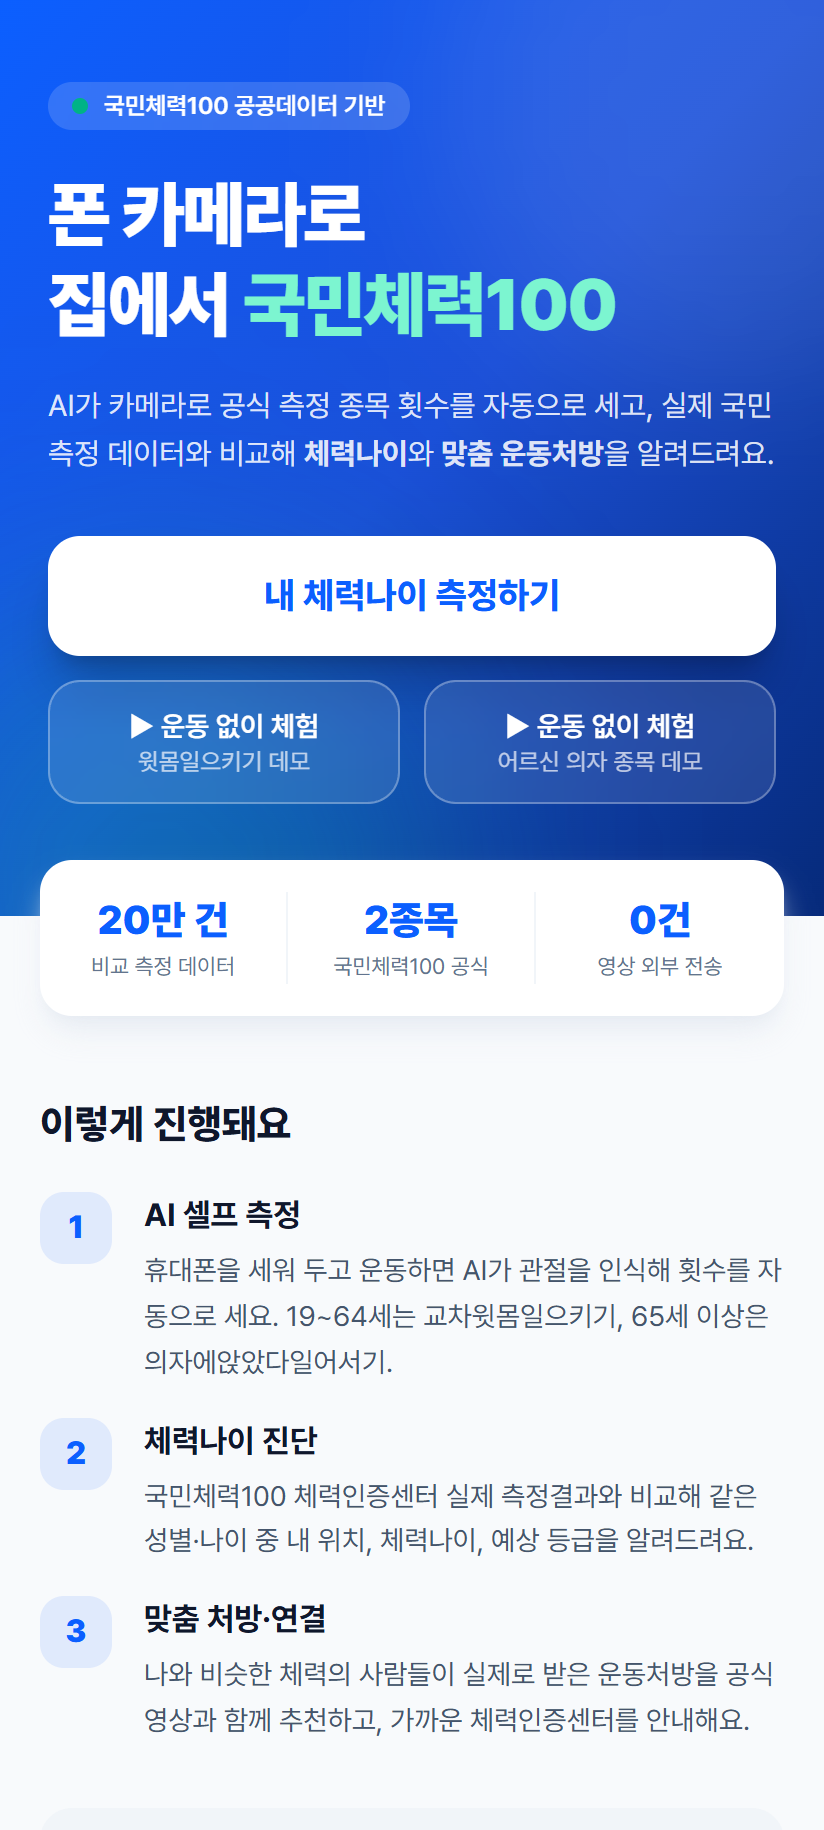
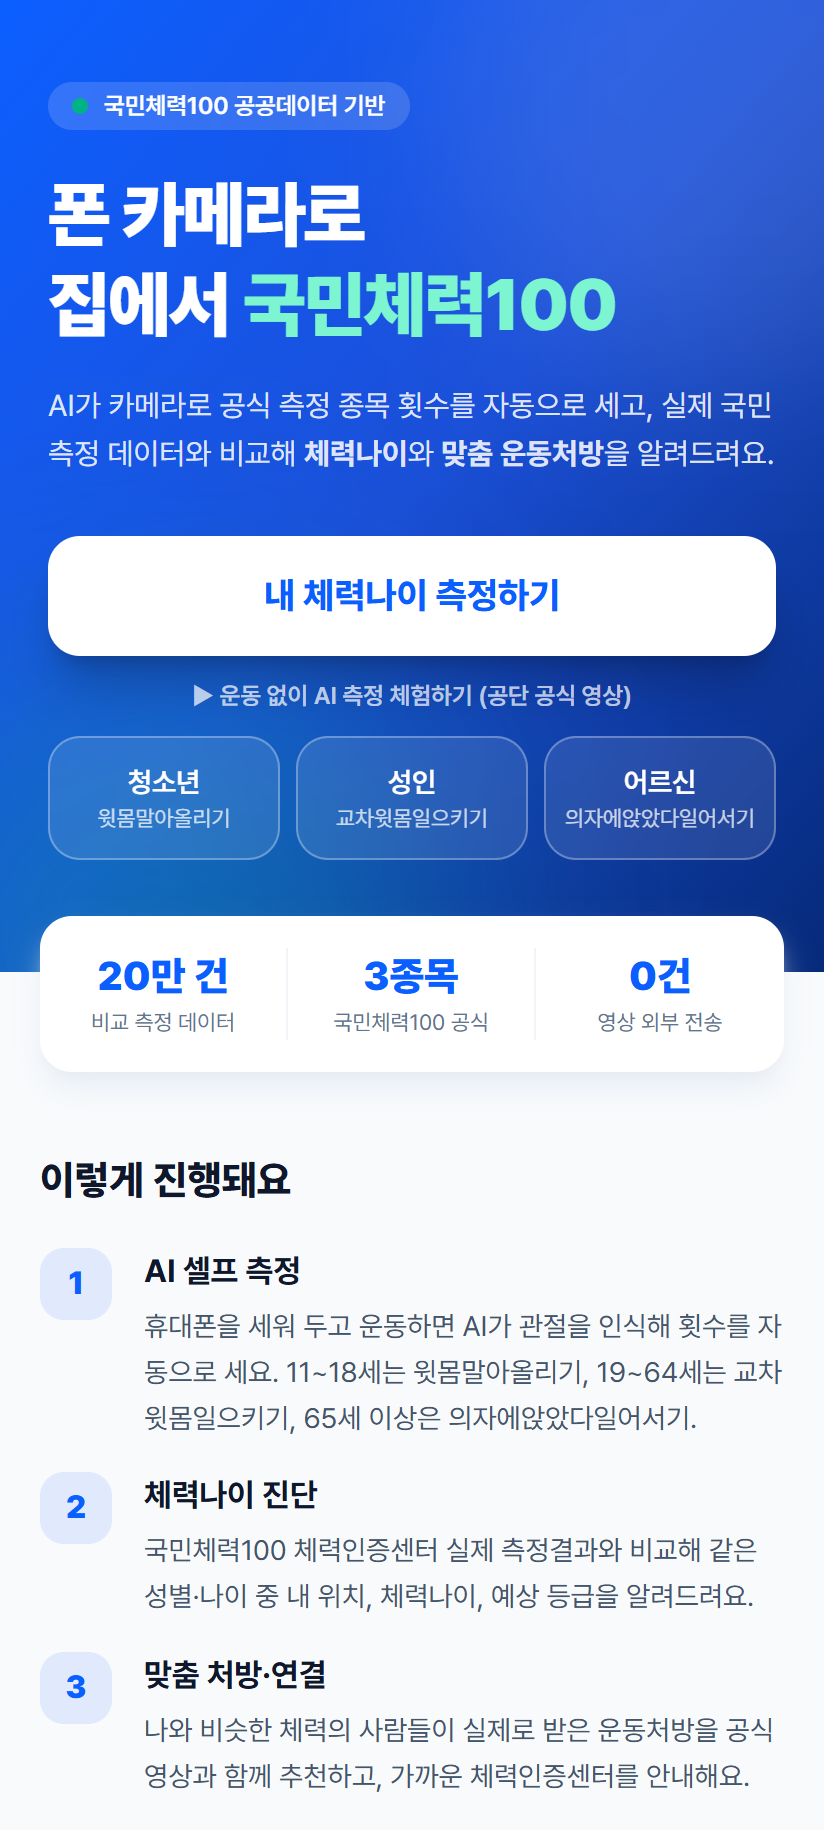
chore: 청소년 종목 E2E 스크립트, 보고서 내용 갱신

diff --git a/scripts/make_report.py b/scripts/make_report.py
@@ -18,6 +18,7 @@ centers = json.load(open('public/data/centers.json', encoding='utf-8'))
 videos = json.load(open('public/data/videos.json', encoding='utf-8'))
 rx = json.load(open('public/data/rx.json', encoding='utf-8'))
 rx_names = {e['name'] for t in rx.values() for s in t.values() for b in s.values() for d in b.values() for e in d['top']}
+n_curl = sum(norms['tests']['curlup'][s]['n'] for s in 'MF')
 n_situp = sum(norms['tests']['situp'][s]['n'] for s in 'MF')
 n_chair = sum(norms['tests']['chairstand'][s]['n'] for s in 'MF')
 n_center = len(centers['list'])
@@ -90,6 +91,7 @@ def report_html():
     s = SHOTS
     landing = img(f'{s}/01_landing.png', width=700)
     run_situp = img(f'{s}/03_situp_running_3.png', crop=(0, 0, 824, 720), width=700)
+    run_teen = img(f'{s}/08_curlup_camera_running.png', crop=(0, 0, 824, 900), width=700) if os.path.exists(f'{s}/08_curlup_camera_running.png') else None
     run_chair = img(f'{s}/08_chair_camera_running_2.png', crop=(0, 0, 824, 720), width=700) if os.path.exists(f'{s}/08_chair_camera_running_2.png') else run_situp
     ready = img(f'{s}/06_situp_camera_ready.png', crop=(0, 0, 824, 1500), width=700)
     profile = img(f'{s}/05_situp_profile.png', crop=(0, 0, 824, 1700), width=700)
@@ -123,7 +125,7 @@ def report_html():
 <tr><th>운영주체</th><td>{CFG['operator']}</td></tr>
 <tr><th>서비스 URL</th><td>{URL} (모바일·PC 웹, 설치 불필요)</td></tr>
 <tr><th>서비스 전체 개요</th><td>
-스마트폰을 세워 두고 운동하면 브라우저 안에서 동작하는 AI가 관절을 인식해 국민체력100 공식 측정 종목(성인 <b>교차윗몸일으키기 60초</b>, 어르신 <b>의자에앉았다일어서기 30초</b>)의 횟수를 자동으로 셉니다.
+스마트폰을 세워 두고 운동하면 브라우저 안에서 동작하는 AI가 관절을 인식해 국민체력100 공식 측정 종목(청소년 <b>윗몸말아올리기(3초 신호음 리듬)</b>, 성인 <b>교차윗몸일으키기 60초</b>, 어르신 <b>의자에앉았다일어서기 30초</b>)의 횟수를 자동으로 셉니다.
 측정값은 공단 <b>체력인증센터 실제 측정결과 {norms['sampleSize']:,}건</b>으로 만든 성별·나이별 규준과 비교해 <b>백분위·체력나이·예상 등급</b>으로 보여주고,
 나와 체력 수준이 비슷한 사람들이 <b>센터 운동처방사에게 실제로 받은 처방</b>을 공단 공식 운동 영상과 함께 추천한 뒤, 가까운 <b>체력인증센터 정식 측정</b>으로 연결합니다.
 </td></tr>
@@ -158,10 +160,11 @@ def report_html():
 </div>
 <table style="margin-top:8px">
 <tr><th style="width:120px">기능</th><th>내용</th></tr>
-<tr><td>AI 셀프 측정</td><td>MediaPipe 자세추정 모델을 브라우저에서 실행해 33개 관절을 실시간 인식. 교차윗몸일으키기는 어깨–엉덩이–무릎 각도, 의자에앉았다일어서기는 허벅지/정강이 세로비로 판정하며, 임계값을 둘로 나눈(히스테리시스) 상태머신으로 떨림 중복 카운트를 막습니다. 관절이 가려지면 세지 않고 “몸 전체가 보이게” 안내합니다. 카운트는 소리·음성으로도 알려줍니다.</td></tr>
+<tr><td>AI 셀프 측정</td><td>MediaPipe 자세추정 모델을 브라우저에서 실행해 33개 관절을 실시간 인식. 윗몸말아올리기·교차윗몸일으키기는 어깨–엉덩이–무릎 각도, 의자에앉았다일어서기는 허벅지/정강이 세로비로 판정하며, 임계값을 둘로 나눈(히스테리시스) 상태머신으로 떨림 중복 카운트를 막습니다. 관절이 가려지면 세지 않고 “몸 전체가 보이게” 안내합니다. 카운트는 소리·음성으로도 알려줍니다. 청소년 윗몸말아올리기는 공식 규칙대로 3초 간격 ‘위로/아래로’ 신호음을 내고, 리듬을 놓치면 자동 종료합니다.</td></tr>
 <tr><td>운동 없이 체험(데모)</td><td>공단 <b>공식 측정방법 영상</b>을 같은 AI로 분석해 정확도를 바로 보여줍니다(AI가 센 횟수 vs 영상 속 실제 횟수).</td></tr>
 <tr><td>체력나이 진단</td><td>같은 성별·나이(±2세) 측정자 분포에서 백분위, 연령별 중앙값 곡선에서 체력나이, 등급별 측정자 중앙값과 비교한 예상 등급을 계산합니다.</td></tr>
 <tr><td>실제 처방 기반 추천</td><td>같은 성별·연령대·체력 10분위 그룹이 체력인증센터에서 받은 운동처방(pres_note) 빈도 TOP5를 공단 운동처방 영상과 함께 보여줍니다.</td></tr>
+<tr><td>기록·공유</td><td>측정 기록을 기기 안에만 저장해 “지난 측정 대비 +N회”를 보여주고, 체력나이 결과를 이미지 카드로 저장·공유합니다(링크 미리보기 지원).</td></tr>
 <tr><td>체력인증센터 연결</td><td>사용자 시·도의 센터를 최근 1년 측정건수 순으로 안내하고, 지도와 국민체력100 예약으로 연결합니다.</td></tr>
 <tr><td>대체 경로</td><td>카메라 권한이 없으면 촬영해 둔 영상 파일 분석 또는 직접 횟수 입력으로도 결과·처방을 받을 수 있습니다.</td></tr>
 </table>
@@ -171,22 +174,24 @@ def report_html():
   <figure><img src="{res_center}"><figcaption>⑥ 가까운 체력인증센터 · 예약 연결</figcaption></figure>
   <figure><img src="{run_chair}"><figcaption>⑦ 어르신 종목(의자에앉았다일어서기)</figcaption></figure>
 </div>
+{f'<div class="grid3" style="margin-top:6px"><figure><img src="{run_teen}"><figcaption>⑧ 청소년 윗몸말아올리기 · 신호음 리듬 안내</figcaption></figure></div>' if run_teen else ''}
 
 <h3>ㅇ AI 측정 정확도 검증</h3>
 <table>
 <tr><th>검증 방법</th><th>종목</th><th>실제 횟수</th><th>AI 카운트</th><th>결과</th></tr>
+<tr><td>공단 측정방법 영상 구간(데모, 브라우저)</td><td>윗몸말아올리기</td><td>4회</td><td>4회</td><td class="check">일치</td></tr>
 <tr><td>공단 측정방법 영상 구간(데모, 브라우저)</td><td>교차윗몸일으키기</td><td>8회</td><td>8회</td><td class="check">일치</td></tr>
 <tr><td>공단 측정방법 영상 구간(데모, 브라우저)</td><td>의자에앉았다일어서기</td><td>6회</td><td>6회</td><td class="check">일치</td></tr>
 <tr><td>가상 카메라에 영상 반복 주입, 실제 60초 측정 흐름</td><td>교차윗몸일으키기</td><td>24회</td><td>24회</td><td class="check">일치</td></tr>
 </table>
-<p class="small">※ 임계값은 공단 측정방법 영상에서 추출한 관절 지표 시계열로 보정했으며, 카운터 로직은 단위 테스트 19건으로 검증했습니다.</p>
+<p class="small">※ 임계값은 공단 측정방법 영상에서 추출한 관절 지표 시계열로 보정했으며, 카운터·규준 로직은 단위 테스트 21건으로 검증했습니다.</p>
 
 <h3>ㅇ 기대효과(파급효과)</h3>
 <div class="grid4">
   <div class="kpi"><b>3분</b><span>센터 방문 없이 집에서 1차 측정·결과·처방까지</span></div>
   <div class="kpi"><b>0원</b><span>서버 없는 온디바이스 AI · 사용자 수와 무관한 운영비</span></div>
   <div class="kpi"><b>0건</b><span>외부로 전송되는 영상·개인 측정 기록</span></div>
-  <div class="kpi"><b>{norms['sampleSize']//10000}만 건</b><span>비교 기준이 되는 실제 국민 측정 데이터</span></div>
+  <div class="kpi"><b>11~100세</b><span>청소년·성인·어르신 공식 3종목</span></div>
 </div>
 <table style="margin-top:8px">
 <tr><th style="width:60px">정량</th><td>
@@ -200,6 +205,7 @@ def report_html():
 <li>체력나이·백분위로 자기 체력을 직관적으로 이해 → 운동 시작 동기 부여 (관심 부족 해소)</li>
 <li>셀프 측정 → 센터 정식 인증으로 이어지는 유입 경로를 만들어 국민체력100 참여 확대</li>
 <li>어르신 하지 근기능(의자에앉았다일어서기)을 집에서 자주 점검해 낙상 위험 신호를 조기 발견</li>
+<li>청소년은 학교 체육수업·방과후에 공식 규칙(신호음 리듬) 그대로 사전 측정 가능 → 학생건강체력평가 대비·체력 관리 습관</li>
 <li>공단이 개방한 측정·처방·영상 데이터가 국민이 바로 쓰는 서비스로 환원되는 공공데이터 선순환 사례</li>
 </ul></td></tr>
 </table>
@@ -208,12 +214,12 @@ def report_html():
 <div class="flow"><div>공공데이터포털<br>오픈API 3종</div><i>→</i><div>수집 스크립트<br>(인증키, 페이지 병렬 수집)</div><i>→</i><div>집계<br>규준표·등급·처방·센터</div><i>→</i><div>정적 JSON<br>(약 0.2MB)</div><i>→</i><div>브라우저<br>AI 측정 결과와 비교</div></div>
 <table>
 <tr><th>데이터</th><th>사용 항목</th><th>서비스에서 하는 일</th></tr>
-<tr><td rowspan="4">측정결과 정보<br><span class="small">{norms['sampleSize']:,}건</span></td><td>item_f019 교차윗몸일으키기(회), item_f023 의자에앉았다일어서기(회), test_sex, age_degree</td><td>성별 × 나이(±2세 창)별 101개 분위값 규준표 생성(교차윗몸일으키기 {n_situp:,}건, 의자에앉았다일어서기 {n_chair:,}건) → <b>백분위·체력나이</b></td></tr>
+<tr><td rowspan="4">측정결과 정보<br><span class="small">{norms['sampleSize']:,}건</span></td><td>item_f009 윗몸말아올리기(회), item_f019 교차윗몸일으키기(회), item_f023 의자에앉았다일어서기(회), test_sex, age_degree</td><td>성별 × 나이(±2세 창)별 101개 분위값 규준표 생성(윗몸말아올리기 {n_curl:,}건, 교차윗몸일으키기 {n_situp:,}건, 의자에앉았다일어서기 {n_chair:,}건) → <b>백분위·체력나이</b></td></tr>
 <tr><td>cert_gbn 상장구분(1~6등급·참가)</td><td>연령대·등급별 해당 종목 중앙값 → <b>예상 등급</b></td></tr>
 <tr><td>pres_note 운동처방내용</td><td>‘본운동’ 운동명을 분리해 성별·연령대·체력 10분위 그룹별 처방 빈도 집계 → <b>“비슷한 체력의 사람들이 실제로 받은 처방 TOP5”</b> ({len(rx_names)}종)</td></tr>
 <tr><td>test_ym 측정연월</td><td>최신 데이터({RANGE}) 기준 비교임을 화면에 표기</td></tr>
 <tr><td>측정건수 정보</td><td>center_nm, center_addr1·2, test_ym, test_cnt</td><td>센터별 최신 주소와 최근 12개월 측정건수 합계 → 시·도별 <b>가까운 체력인증센터</b> 안내(운영 {n_center}곳)</td></tr>
-<tr><td rowspan="2">동영상 정보</td><td>체력인증측정방법(TODZ_VDO_FTNS_CERT_I): 교차윗몸일으키기·30초 의자에 앉았다 일어서기 영상</td><td>① AI 카운터 임계값 보정용 학습·검증 영상 ② <b>운동 없이 체험(데모)</b> 영상 ③ 측정 화면의 공식 측정방법 안내</td></tr>
+<tr><td rowspan="2">동영상 정보</td><td>체력인증측정방법(TODZ_VDO_FTNS_CERT_I): 윗몸말아올리기·교차윗몸일으키기·30초 의자에 앉았다 일어서기 영상</td><td>① AI 카운터 임계값 보정용 학습·검증 영상 ② <b>운동 없이 체험(데모)</b> 영상 ③ 측정 화면의 공식 측정방법 안내</td></tr>
 <tr><td>운동처방동영상·전체 동영상 목록: 운동명, 영상URL, 장면 이미지, 설명, 도구</td><td>처방 운동명과 영상 운동명을 정규화 매칭해 <b>처방 운동 {len(rx_names)}종 중 {len(videos)}종</b>에 공식 영상·썸네일 연결</td></tr>
 </table>
 
@@ -230,7 +236,7 @@ def report_html():
 <h2>5) 발전 가능성 · 사업화 계획</h2>
 <table>
 <tr><th style="width:120px">단계</th><th>내용</th></tr>
-<tr><td>종목 확대</td><td>청소년 윗몸말아올리기·반복옆뛰기, 어르신 2분제자리걷기 등 측정결과 데이터에 있는 반복형 종목을 같은 엔진으로 추가</td></tr>
+<tr><td>종목 확대</td><td>반복옆뛰기, 어르신 2분제자리걷기 등 측정결과 데이터에 있는 반복형 종목을 같은 엔진으로 추가해 체력요인별 종합 진단으로 확장</td></tr>
 <tr><td>공공 연계 (B2G)</td><td>국민체력100 앱·홈페이지에 셀프 측정 모듈로 제공, 보건소·지자체 어르신 낙상예방 프로그램의 가정 내 점검 도구</td></tr>
 <tr><td>학교·기업 (B2B)</td><td>학교 체육수업 사전 측정, 기업 임직원 체력 챌린지(부서별 체력나이 리그) — 단체 관리용 대시보드 구독형 과금</td></tr>
 <tr><td>헬스케어 연계</td><td>건강증진형 보험·헬스케어 서비스에 객관적 체력 지표(국가 규준 기반 체력나이) 제공, 이용권 강좌 연계 중개</td></tr>

diff --git a/scripts/e2e_teen.py b/scripts/e2e_teen.py
@@ -1,0 +1,50 @@
+# 청소년 종목 E2E: 데모 + 가상 카메라(신호음 리듬 모드) 측정 후 '측정 종료'
+import sys, time, os
+from playwright.sync_api import sync_playwright
+
+URL = sys.argv[1]
+Y4M = os.path.abspath('data-raw/fake/curl.y4m')
+OUT = 'report/shots'
+CHROME = r'C:\Program Files\Google\Chrome\Application\chrome.exe'
+with sync_playwright() as p:
+    b = p.chromium.launch(executable_path=CHROME, headless=True, args=[
+        '--use-fake-device-for-media-stream', '--use-fake-ui-for-media-stream',
+        f'--use-file-for-fake-video-capture={Y4M}', '--autoplay-policy=no-user-gesture-required'])
+    ctx = b.new_context(viewport={'width': 412, 'height': 915}, device_scale_factor=2, permissions=['camera'])
+    pg = ctx.new_page()
+    errs = []
+    pg.on('pageerror', lambda e: errs.append(str(e)))
+    pg.goto(URL, wait_until='networkidle')
+    pg.screenshot(path=f'{OUT}/01_landing.png')
+    # 데모
+    pg.locator('button', has_text='청소년').first.click()
+    pg.get_by_text('AI 분석 시작').wait_for(timeout=60000)
+    pg.get_by_text('AI 분석 시작').click()
+    time.sleep(7)
+    pg.screenshot(path=f'{OUT}/03_curlup_running.png')
+    pg.get_by_text('체력인증센터에서').first.wait_for(timeout=60000)
+    time.sleep(1)
+    pg.screenshot(path=f'{OUT}/04_curlup_result_full.png', full_page=True)
+    print('DEMO:', pg.locator('text=AI가 센 횟수').first.inner_text())
+    # 카메라
+    pg.get_by_text('← 처음으로').first.click()
+    pg.get_by_text('내 체력나이 측정하기').click()
+    pg.get_by_text('남성', exact=True).click()
+    pg.get_by_placeholder('예: 42').fill('15')
+    pg.locator('select').select_option('경기')
+    pg.screenshot(path=f'{OUT}/05_curlup_profile.png')
+    pg.get_by_text('다음: 카메라로 측정하기').click()
+    pg.get_by_text('측정 시작 (신호음 리듬)').wait_for(timeout=60000)
+    pg.get_by_text('측정 시작 (신호음 리듬)').click()
+    time.sleep(14)
+    pg.screenshot(path=f'{OUT}/08_curlup_camera_running.png')
+    time.sleep(10)
+    pg.get_by_text('측정 종료').click()
+    pg.get_by_text('체력인증센터에서').first.wait_for(timeout=30000)
+    time.sleep(1)
+    pg.screenshot(path=f'{OUT}/09_curlup_camera_result_full.png', full_page=True)
+    body = pg.inner_text('body')
+    i = body.find('윗몸말아올리기')
+    print('CAMERA:', body[i:i + 120].replace('\n', ' | '))
+    print('ERRORS:', errs[:5])
+    b.close()
